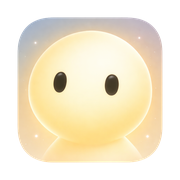
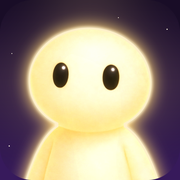
Apercu des liens partages (og:image) et icones : l'icone de l'appli

diff --git a/index.html b/index.html
@@ -6,9 +6,13 @@
   <title>L'astrée with Glow</title>
   <meta name="description" content="L'astrée with Glow, un jeu narratif sur les émotions, de 4 à 99 ans. Aujourd'hui, la version pour les enfants de 4 à 8 ans est en test, sur Android.">
   <meta name="theme-color" content="#0e0c16">
-  <link rel="icon" href="images/icone-32.png" sizes="32x32">
-  <link rel="icon" href="images/icone-192.png" sizes="192x192">
-  <link rel="apple-touch-icon" href="images/icone-180.png">
+  <link rel="icon" href="images/icone-32.png?v=2026-10-26" sizes="32x32">
+  <link rel="icon" href="images/icone-192.png?v=2026-10-26" sizes="192x192">
+  <meta property="og:image" content="https://lastreewithglow.com/images/apercu-partage.png?v=2026-10-26">
+  <meta property="og:image:width" content="512">
+  <meta property="og:image:height" content="512">
+  <meta property="og:image:alt" content="Glow, petit personnage lumineux, sur un ciel de nuit violet">
+  <link rel="apple-touch-icon" href="images/icone-180.png?v=2026-10-26">
   <meta property="og:title" content="L'astrée with Glow">
   <meta property="og:description" content="L'endroit pour déposer, explorer et traverser ce qui se passe à l'intérieur.">
   <meta property="og:type" content="website">

diff --git a/confidentialite.html b/confidentialite.html
@@ -6,9 +6,13 @@
   <title>Confidentialité · L'astrée with Glow</title>
   <meta name="description" content="Politique de confidentialité du jeu L'astrée with Glow : rien ne part du téléphone sans l'accord d'un parent.">
   <meta name="theme-color" content="#0e0c16">
-  <link rel="icon" href="images/icone-32.png" sizes="32x32">
-  <link rel="icon" href="images/icone-192.png" sizes="192x192">
-  <link rel="apple-touch-icon" href="images/icone-180.png">
+  <link rel="icon" href="images/icone-32.png?v=2026-10-26" sizes="32x32">
+  <link rel="icon" href="images/icone-192.png?v=2026-10-26" sizes="192x192">
+  <meta property="og:image" content="https://lastreewithglow.com/images/apercu-partage.png?v=2026-10-26">
+  <meta property="og:image:width" content="512">
+  <meta property="og:image:height" content="512">
+  <meta property="og:image:alt" content="Glow, petit personnage lumineux, sur un ciel de nuit violet">
+  <link rel="apple-touch-icon" href="images/icone-180.png?v=2026-10-26">
   <link rel="stylesheet" href="style.css?v=2026-10-23t">
 </head>
 <body class="interne">

diff --git a/parents.html b/parents.html
@@ -6,9 +6,13 @@
   <title>Note aux parents · L'astrée with Glow</title>
   <meta name="description" content="Installer L'astrée with Glow par Google Play, et ce que votre enfant va trouver dans le jeu.">
   <meta name="theme-color" content="#0e0c16">
-  <link rel="icon" href="images/icone-32.png" sizes="32x32">
-  <link rel="icon" href="images/icone-192.png" sizes="192x192">
-  <link rel="apple-touch-icon" href="images/icone-180.png">
+  <link rel="icon" href="images/icone-32.png?v=2026-10-26" sizes="32x32">
+  <link rel="icon" href="images/icone-192.png?v=2026-10-26" sizes="192x192">
+  <meta property="og:image" content="https://lastreewithglow.com/images/apercu-partage.png?v=2026-10-26">
+  <meta property="og:image:width" content="512">
+  <meta property="og:image:height" content="512">
+  <meta property="og:image:alt" content="Glow, petit personnage lumineux, sur un ciel de nuit violet">
+  <link rel="apple-touch-icon" href="images/icone-180.png?v=2026-10-26">
   <link rel="stylesheet" href="style.css?v=2026-10-23t">
 </head>
 <body class="interne">
